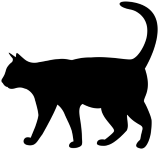
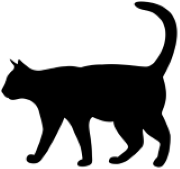
styling and positioning

diff --git a/index.js b/index.js
@@ -37,8 +37,8 @@ window.addEventListener('load', function(){  //'load' event is fired once page h
             this.x = 0;
             this.y = this.gameHeight - this.height;
             this.image = document.getElementById('playerImage');
-            this.frameX = 0;
-            this.frameY = 0;
+            this.frameX = 0; //sprite sheet frames
+            this.frameY = 0; //sprite sheet frames
             this.speed = 0;
             this.vy = 0; //velocity y
             this.gravity = 0.41;
@@ -70,7 +70,7 @@ window.addEventListener('load', function(){  //'load' event is fired once page h
             if(this.y > this.gameHeight - this.height) this.y = this.gameHeight - this.height
         }
         ground() {
-            return this.y >= this.gameHeight - this.height;
+            return this.y >= this.gameHeight - this.height -60;
         }
         draw(context) {
             //context.fillStyle = 'white';
@@ -93,7 +93,7 @@ window.addEventListener('load', function(){  //'load' event is fired once page h
         }
         draw(context) {   //draw method has context as an argument
             context.drawImage(this.image, this.x, this.y, this.width, this.height); //draw same image twice
-            context.drawImage(this.image, this.x + this.width - 1, this.y, this.width, this.height);
+            context.drawImage(this.image, this.x + this.width - this.speed, this.y, this.width, this.height);
         }
         update() {
             this.x -= this.speed;
@@ -108,7 +108,7 @@ window.addEventListener('load', function(){  //'load' event is fired once page h
         this.height = 119;
         this.image = document.getElementById('enemyImage');  //this loads image so we can draw it later with .drawImage method
         this.x = this.gameWidth
-        this.y = this.gameHeight - this.height;
+        this.y = this.gameHeight - this.height -80;
         this.speed = 2;
         }
         draw(context) {     //draw method has context as an argument

diff --git a/index.html b/index.html
@@ -9,8 +9,8 @@
 </head>
 <body>
     <canvas id="canvas1"></canvas>
-    <img id="playerImage" src="./assets/player1.png" alt=""> <!--asset from https://bevouliin.com/ -->
-    <img id="backgroundImage" src="./assets/sewerbg.jpg" alt="">  <!--asset from https://bevouliin.com/ -->
+    <img id="playerImage" src="./assets/player.png" alt=""> <!--asset from https://bevouliin.com/ -->
+    <img id="backgroundImage" src="./assets/sewerbg2.jpg" alt="">  <!--asset from https://bevouliin.com/ -->
     <img id="enemyImage" src="./assets/enemycat.png" alt="">  <!--asset from https://bevouliin.com/ -->
     <script src="./index.js"></script>
 </body>

diff --git a/style.css b/style.css
@@ -1,6 +1,7 @@
 body {
     background: black;
     overflow: hidden;
+    z-index: 1;
 }
 
 #canvas1 {
@@ -13,6 +14,7 @@ body {
 #playerImage, #backgroundImage, #enemyImage1 {
     display: none;
 }
+
 
 
 

diff --git a/Readme.md b/Readme.md
@@ -17,3 +17,4 @@ Assets from https://bevouliin.com/
 -Make coins that player can grab and store them in browser localStorage
 -create start menu that works in GitHub
 -create win/loss scenarios
+-need to finetune background because it is laggy in GitHub, maybe change -1 to -this.speed
